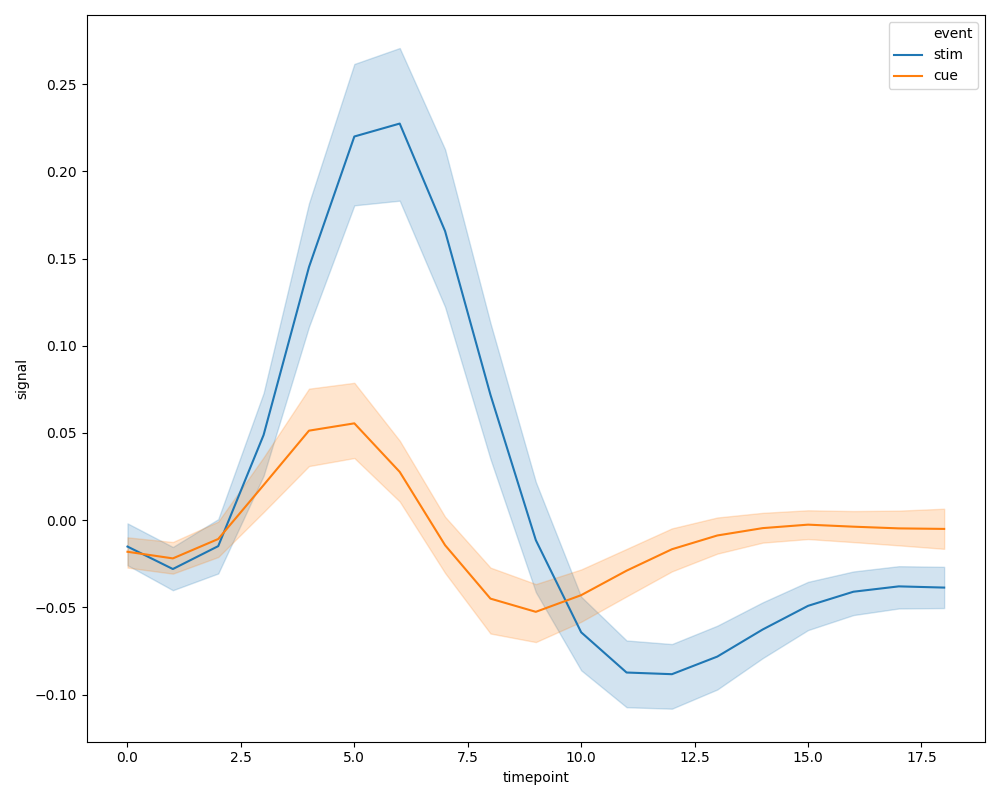
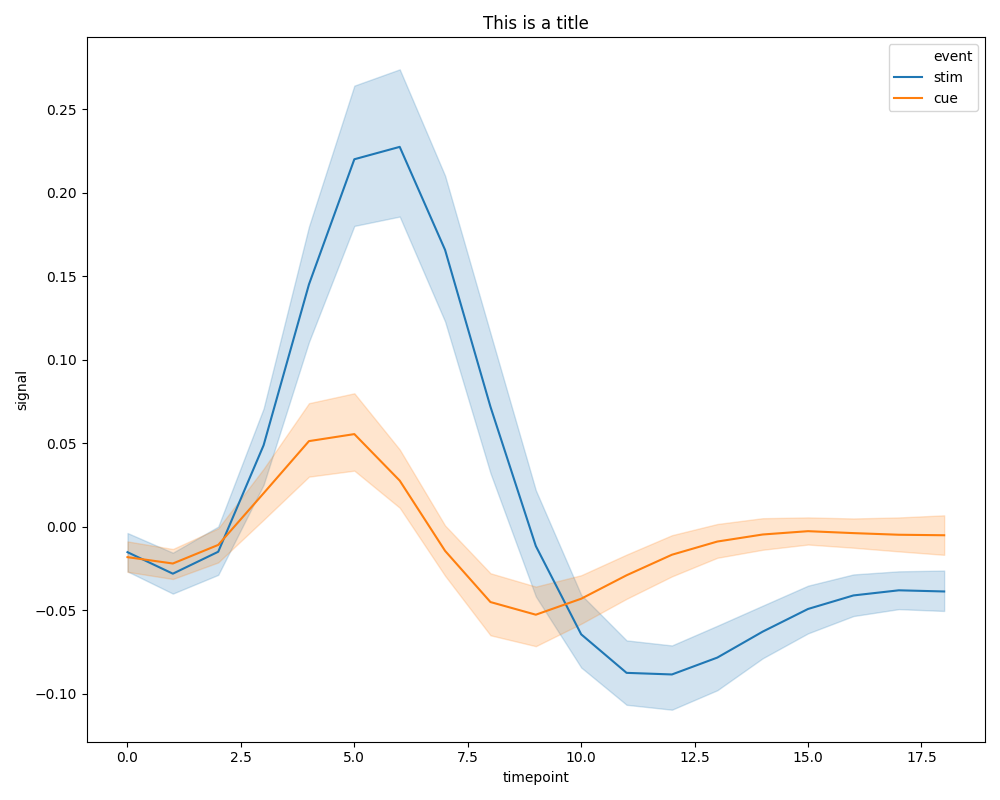
Add a title command line argument

diff --git a/hatch/hatch.py b/hatch/hatch.py
@@ -91,6 +91,9 @@ def parse_args():
     parser.add_argument(
         '--navalues', metavar='STR', required=False, type=str,
         help='Treat values in this space separated list as NA values. Example: --navalues ". - !"')
+    parser.add_argument(
+        '--title', metavar='STR', required=False, type=str,
+        help='Plot title. By default no title will be added.')
 
     subparsers = parser.add_subparsers(help='sub-command help', dest='cmd')  
 
@@ -241,6 +244,8 @@ def histogram(options, df):
             ax.set(xlabel=column, ylabel='count')
             if options.logy:
                 ax.set(yscale="log")
+            if options.title:
+                plt.title(options.title)
             plt.tight_layout()
             plt.savefig(filename)
             plt.close()
@@ -273,6 +278,8 @@ def plot_distributions_by(df, options, group):
             ax.set(xlabel=group, ylabel=column)
             if options.logy:
                 ax.set(yscale="log")
+            if options.title:
+                plt.title(options.title)
             plt.tight_layout()
             plt.savefig(filename)
             plt.close()
@@ -301,6 +308,8 @@ def line_plot(options, df, feature1, feature2):
     ax.set(xlabel=feature1, ylabel=feature2)
     if options.logy:
         ax.set(yscale="log")
+    if options.title:
+        plt.title(options.title)
     plt.tight_layout()
     plt.savefig(filename)
     plt.close()
@@ -314,6 +323,8 @@ def heatmap(options, df):
     g=sns.heatmap(data=pivot_data, cmap=options.cmap)
     output_name = get_output_name(options)
     filename = Path('.'.join([output_name, options.rows, options.columns, options.values, 'heatmap.png'])) 
+    if options.title:
+        plt.title(options.title)
     plt.tight_layout()
     plt.savefig(filename)
     plt.close()
@@ -345,6 +356,8 @@ def scatter_plot(options, df, feature1, feature2):
     output_name = get_output_name(options)
     filename = Path('.'.join([output_name, feature1_str, feature2_str, 'scatter.png'])) 
     ax.set(xlabel=feature1, ylabel=feature2)
+    if options.title:
+        plt.title(options.title)
     plt.tight_layout()
     plt.savefig(filename)
     plt.close()

diff --git a/README.md b/README.md
@@ -68,10 +68,9 @@ Common parameters:
 
 ```
 $ hatch -h
-$ hatch --help
 usage: hatch [-h] [--outdir DIR] [--filetype FILETYPE] [--name NAME]
              [--version] [--log LOG_FILE] [--nolegend] [--filter EXPR]
-             [--navalues STR]
+             [--navalues STR] [--title STR]
              {hist,dist,scatter,line,heatmap} ...
 
 Generate plots of tabular data
@@ -97,6 +96,7 @@ optional arguments:
                         expression True
   --navalues STR        Treat values in this space separated list as NA
                         values. Example: --navalues ". - !"
+  --title STR           Plot title. By default no title will be added.
 ```
 
 ## Example test data
